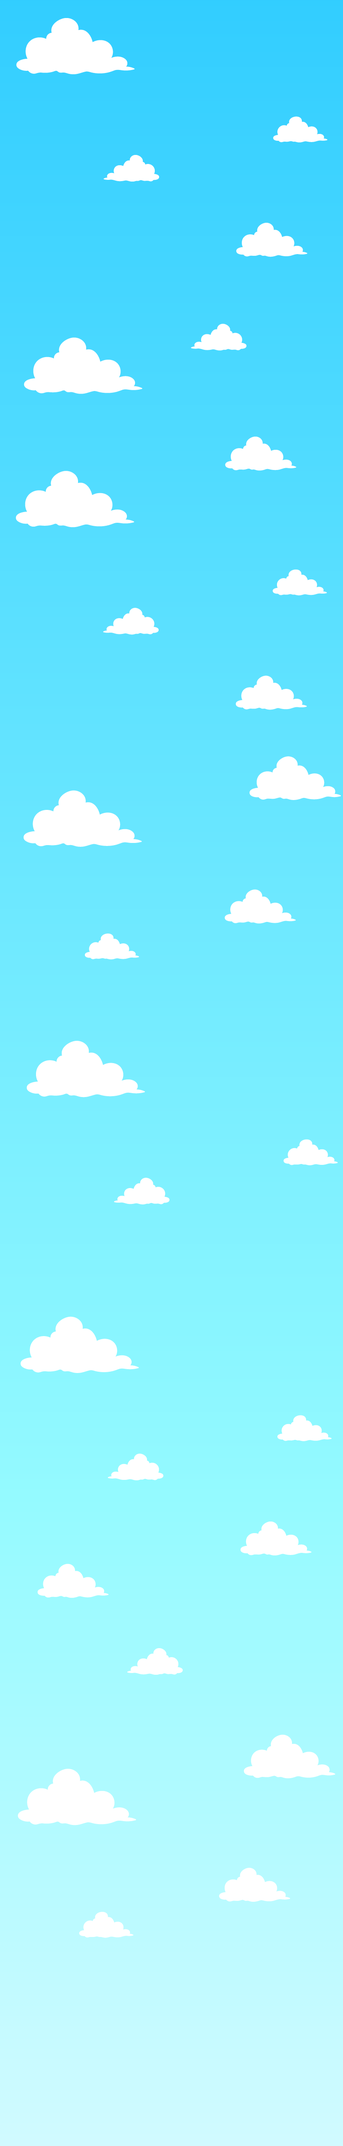
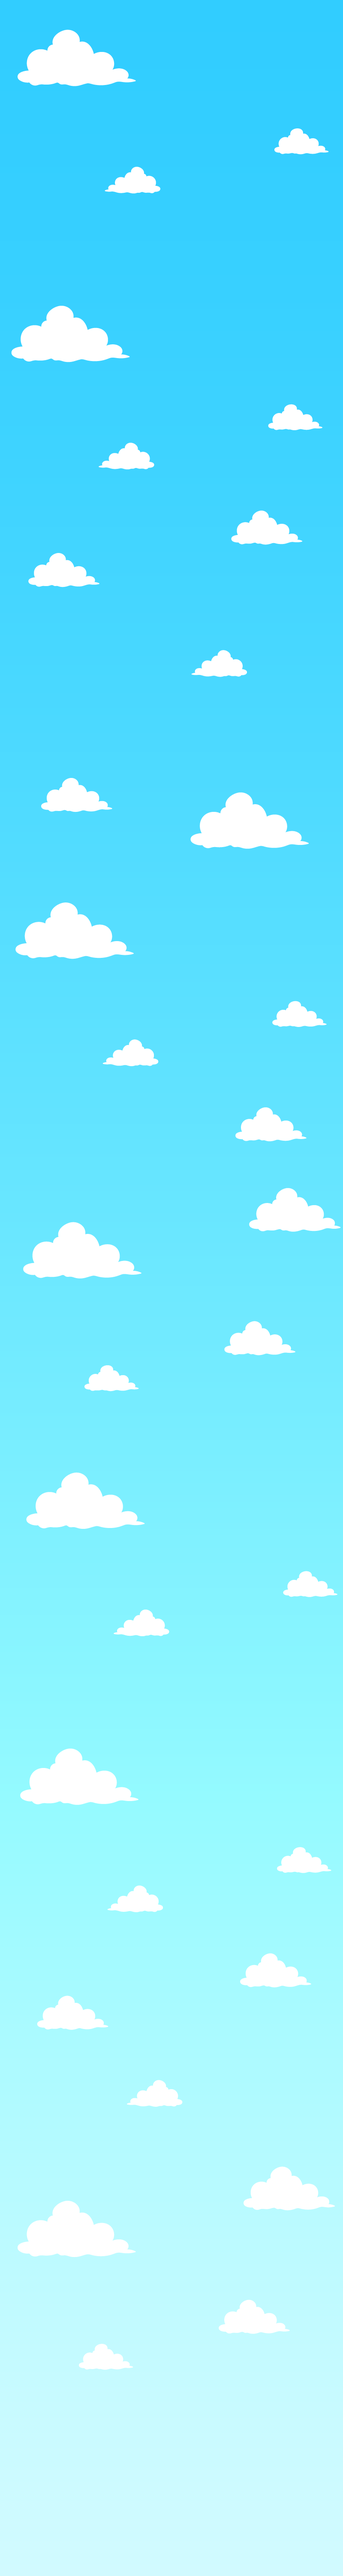
logic done

diff --git a/models.py b/models.py
@@ -173,6 +173,17 @@ class Level:
 
         self.setup()
 
+    def setup(self):
+        self.map = random_map()
+        self.platforms = self.gen_map(self.map)
+        self.ava_platforms = self.avaliable_platforms()
+        self.coin = random_coin(self.ava_platforms)
+        self.coins = self.gen_coin(self.coin)
+        self.items, self.item_no = self.gen_item()
+        self.spikes = self.gen_spikes()
+        self.heart = self.gen_heart()
+        self.checkpoint = Item(self, self.platforms[-3].x, self.platforms[-3].y + 100)
+
     def gen_map(self, map):
         platforms = []
         for r in range(len(map)):
@@ -202,7 +213,7 @@ class Level:
     def gen_item(self):
         items = [Item(self, -100, -100)]
         for i in range(1):
-            p = random.choice(self.ava_platforms)
+            p = random.choice(self.platforms[8:-8])
             if p.avaliable == True:  
                 t = Item(self, p.x, p.y + 80)
                 p.item_on()
@@ -217,6 +228,7 @@ class Level:
             if p.avaliable == True:
                 sp = Item(self, p.x, p.y + 75)
                 p.item_on()
+                self.ava_platforms.remove(p)
                 spikes.append(sp)
         return spikes
     
@@ -227,19 +239,9 @@ class Level:
             if p.avaliable == True:
                 h = Item(self, p.x, p.y + 80)
                 p.item_on()
+                self.ava_platforms.remove(p)
                 heart.insert(0, h)
         return heart
-
-    def setup(self):
-        self.map = random_map()
-        self.platforms = self.gen_map(self.map)
-        self.ava_platforms = self.avaliable_platforms()
-        self.coin = random_coin(self.ava_platforms)
-        self.coins = self.gen_coin(self.coin)
-        self.items, self.item_no = self.gen_item()
-        self.spikes = self.gen_spikes()
-        self.heart = self.gen_heart()
-        self.checkpoint = Item(self, self.platforms[-3].x, self.platforms[-3].y + 100)
     
     def collect_coins(self):
         for c in self.coins:

diff --git a/popcorn.py b/popcorn.py
@@ -63,9 +63,9 @@ class ImNotPopcorn(arcade.Window):
         i = 1
         for platform in platforms:
             if i < 9:
-                p = ModelSprite(f'images/platforms/lv{self.world.level}_1.png', model=platform)
+                p = ModelSprite(f'images/platforms/lv{self.world.level%10}_1.png', model=platform)
             else:
-                p = ModelSprite(f'images/platforms/lv{self.world.level}_2.png', model=platform)
+                p = ModelSprite(f'images/platforms/lv{self.world.level%10}_2.png', model=platform)
             i += 1
             p.draw()
     
@@ -168,8 +168,8 @@ class ImNotPopcorn(arcade.Window):
     def draw_game(self):
         arcade.draw_rectangle_filled(SCREEN_WIDTH//2, SCREEN_HEIGHT + self.view_bottom//2, 
                                      SCREEN_WIDTH, SCREEN_HEIGHT + self.view_bottom, arcade.color.BABY_BLUE)
-        arcade.draw_texture_rectangle(SCREEN_WIDTH // 2, 5000 // 2,
-                                      SCREEN_WIDTH, 5000, self.background)
+        arcade.draw_texture_rectangle(SCREEN_WIDTH // 2, 6000 // 2,
+                                      SCREEN_WIDTH, 6000, self.background)
         self.draw_platforms(self.world.lv1.platforms)
         self.checkpoint.draw()
         self.draw_coin()

diff --git a/maps.py b/maps.py
@@ -25,8 +25,9 @@ def random_map():
                 '....##..']
     for i in range(42):
         p = random.choice(map_pool)
-        if check_platform(map_init[-1], p):
-            map_init.append(p)
+        while not check_platform(map_init[-1], p):
+            p = random.choice(map_pool)
+        map_init.append(p)
     map_init.append('####....')
     return map_init
 
@@ -37,5 +38,7 @@ def random_coin(lst):
         if p.avaliable == True:
             p.item_on()
             c = [p.x, p.y + 105]
+            index = lst.index(p)
+            lst.pop(index)
             coin_list.append(c)
     return coin_list
